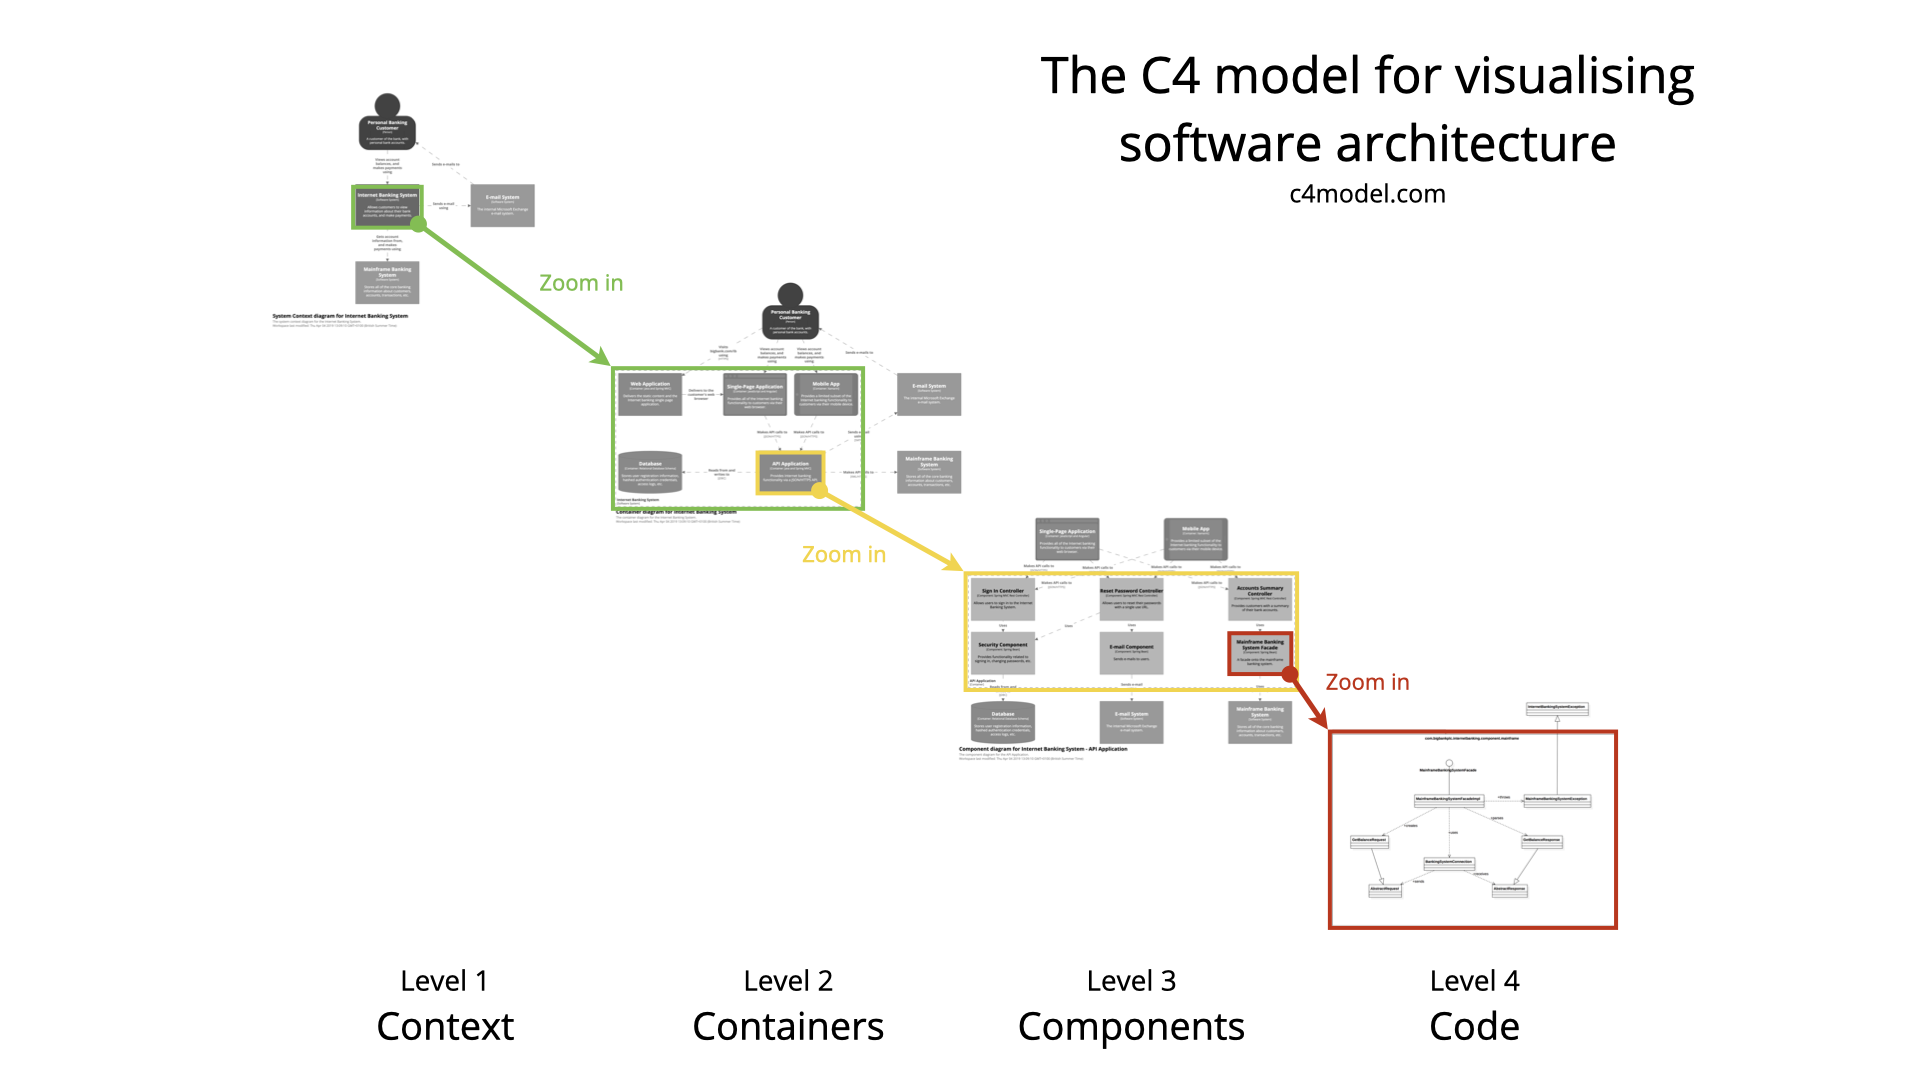
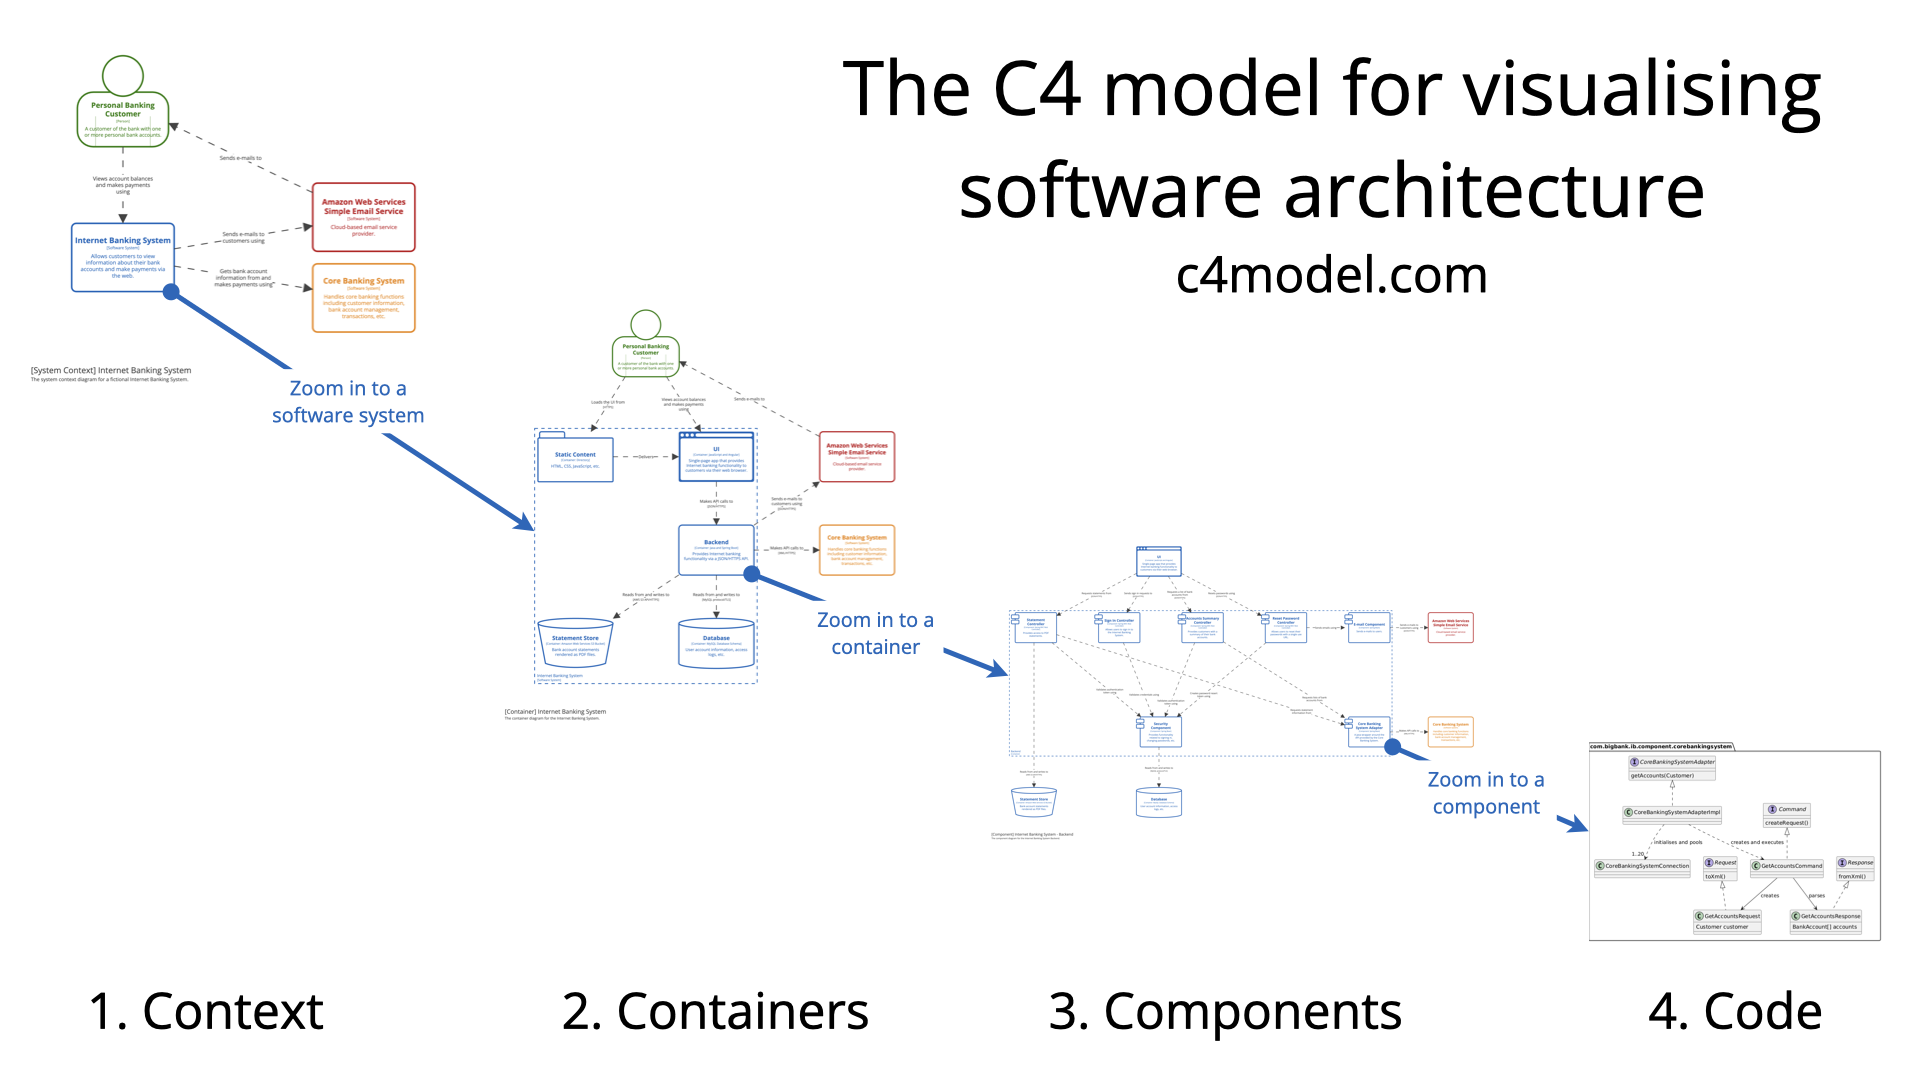
Adds updated overview and link to Patreon post.

diff --git a/_includes/footer_custom.html b/_includes/footer_custom.html
@@ -1,4 +1,7 @@
 <script src="https://simonbrown.je/js/ad.js"></script>
 <script>
     showAd('main-content');
+    var div = document.createElement('div');
+    div.innerHTML = '<div style="text-align: center; font-weight: bold; margin-bottom: 10px">New example diagrams are coming soon! Join the <a href="https://www.patreon.com/posts/132584097" target="_blank">C4 model Patreon</a> for early access.</div>';
+    document.getElementById('main-content').prepend(div);
 </script>
